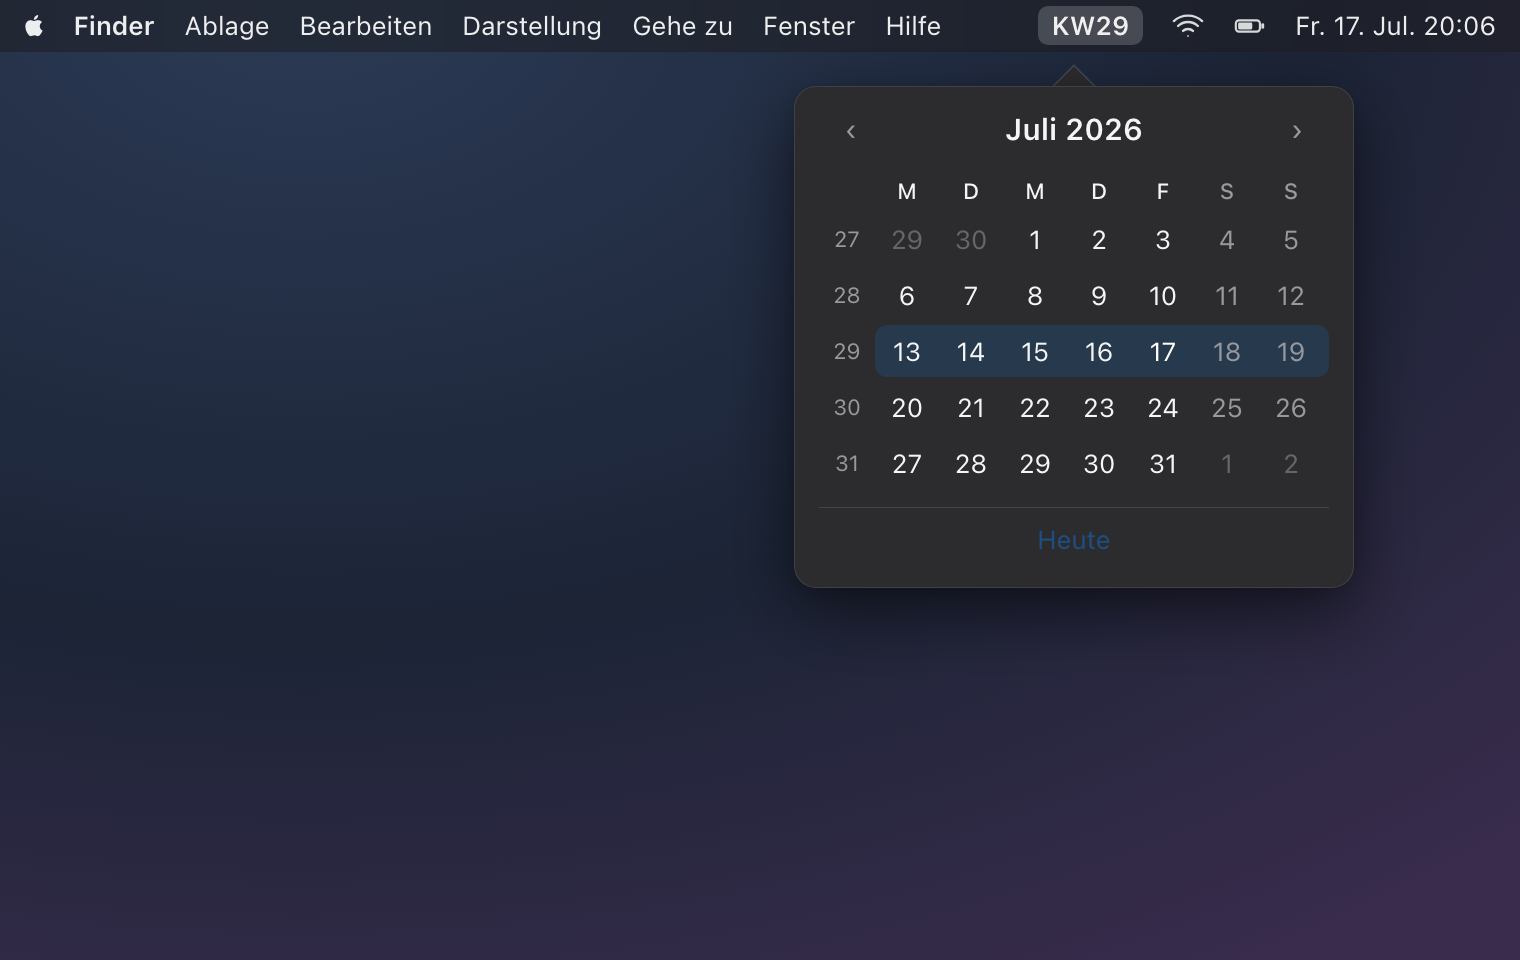
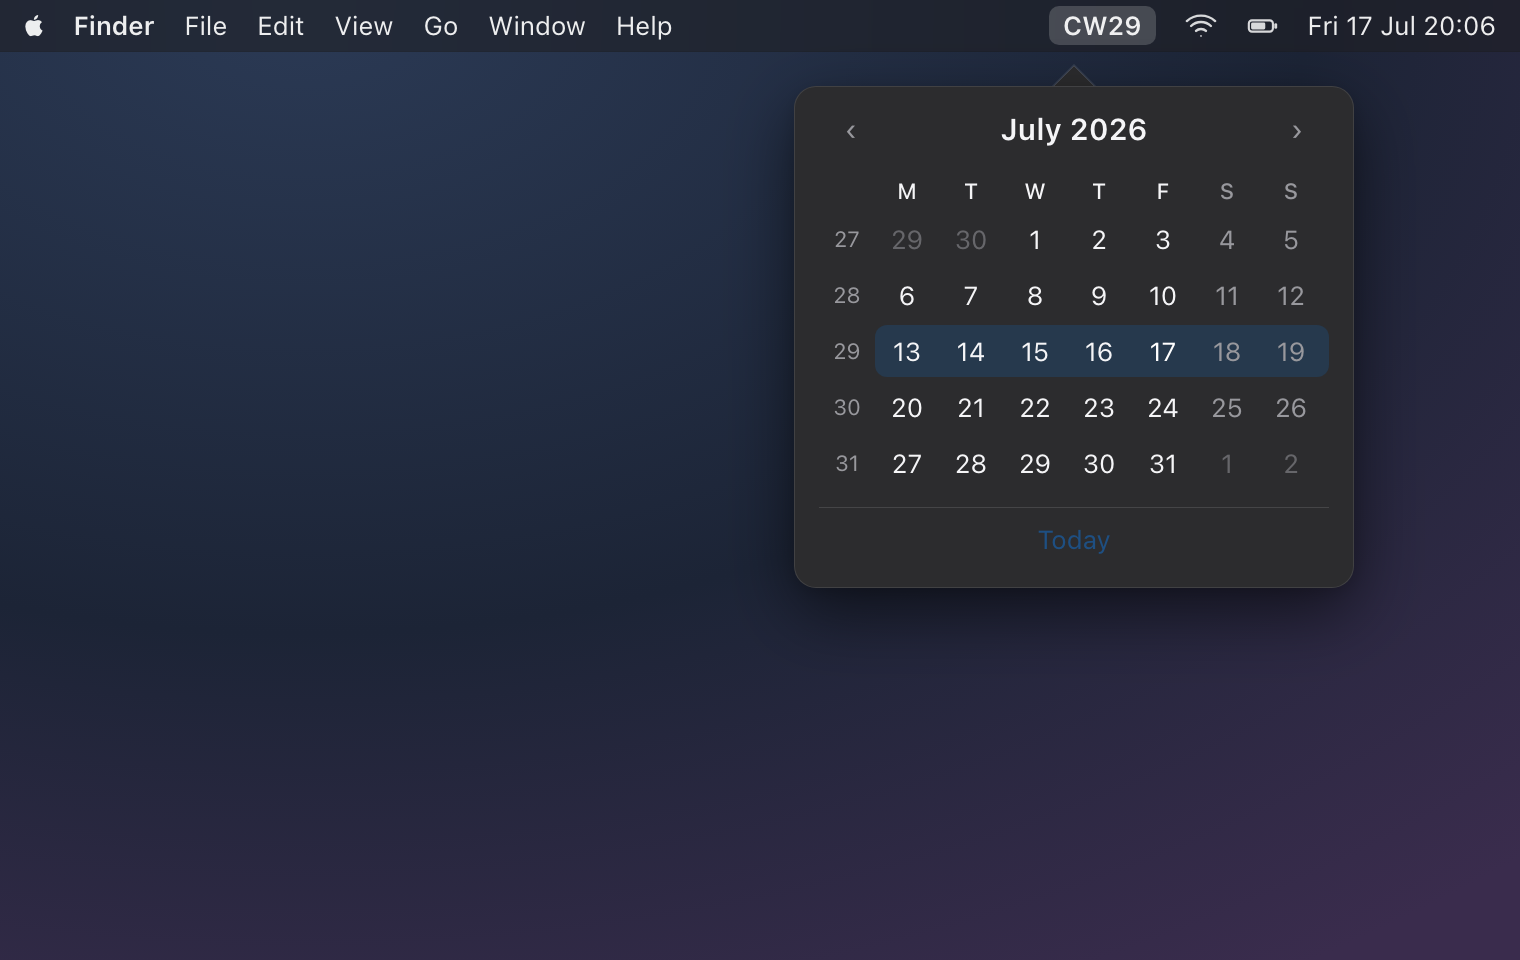
feat: switch the UI to English
Per direction change, the interface is now fully English instead of German:
menu bar shows 'CW29' (calendar week) instead of 'KW29', month names use en_US
(July 2026), weekday initials are M T W T F S S, and the popover/menu read
'Today' and 'Quit'. Update the tests, the README/CONTRIBUTING/CLAUDE/CHANGELOG,
and re-render the hero (light/dark) and social-preview images to match. The
ISO-8601 week math is unchanged; 'Kalenderwoche' is kept only as an SEO keyword.

diff --git a/QuickWeek/WeekCalculator.swift b/QuickWeek/WeekCalculator.swift
@@ -4,8 +4,8 @@ import Foundation
 ///
 /// Every calculation uses an ISO-8601 calendar: weeks start on Monday and week 1 is
 /// the week containing the year's first Thursday. That matches how the calendar week
-/// ("Kalenderwoche", KW) is counted in German-speaking and most European contexts —
-/// which is exactly the number macOS does not show anywhere by default.
+/// (CW — the *Kalenderwoche* used across much of Europe) is counted, which is exactly
+/// the number macOS does not show anywhere by default.
 enum WeekCalculator {
     /// The ISO-8601 calendar used for every week calculation. Its time zone tracks the
     /// system (`autoupdatingCurrent`) so the week still updates correctly if the Mac's
@@ -21,9 +21,9 @@ enum WeekCalculator {
         calendar.component(.weekOfYear, from: date)
     }
 
-    /// The menu-bar title for the given date, e.g. `"KW29"` (zero-padded to two digits).
+    /// The menu-bar title for the given date, e.g. `"CW29"` (zero-padded to two digits).
     static func menuBarTitle(for date: Date, calendar: Calendar = WeekCalculator.calendar) -> String {
-        String(format: "KW%02d", isoWeekNumber(for: date, calendar: calendar))
+        String(format: "CW%02d", isoWeekNumber(for: date, calendar: calendar))
     }
 
     /// The full weeks — each exactly seven days, Monday first — spanned by the month

diff --git a/QuickWeek/CalendarView.swift b/QuickWeek/CalendarView.swift
@@ -4,7 +4,7 @@ struct CalendarView: View {
     @State private var displayedMonth: Date = Date()
 
     private let calendar = WeekCalculator.calendar
-    private let weekdaySymbols = ["M", "D", "M", "D", "F", "S", "S"]
+    private let weekdaySymbols = ["M", "T", "W", "T", "F", "S", "S"]
 
     var body: some View {
         VStack(spacing: 12) {
@@ -85,7 +85,7 @@ struct CalendarView: View {
                 .padding(.top, 4)
 
             Button(action: goToToday) {
-                Text("Heute")
+                Text("Today")
                     .frame(maxWidth: .infinity)
             }
             .buttonStyle(.plain)
@@ -104,7 +104,7 @@ struct CalendarView: View {
 
     private var monthYearString: String {
         let formatter = DateFormatter()
-        formatter.locale = Locale(identifier: "de_DE")
+        formatter.locale = Locale(identifier: "en_US")
         formatter.dateFormat = "MMMM yyyy"
         return formatter.string(from: displayedMonth)
     }

diff --git a/QuickWeek/AppDelegate.swift b/QuickWeek/AppDelegate.swift
@@ -65,9 +65,9 @@ class AppDelegate: NSObject, NSApplicationDelegate {
         if event.type == .rightMouseUp {
             // Right click - show context menu
             let menu = NSMenu()
-            menu.addItem(NSMenuItem(title: "Quick Week", action: nil, keyEquivalent: ""))
+            menu.addItem(NSMenuItem(title: "QuickWeek", action: nil, keyEquivalent: ""))
             menu.addItem(NSMenuItem.separator())
-            menu.addItem(NSMenuItem(title: "Beenden", action: #selector(quit), keyEquivalent: "q"))
+            menu.addItem(NSMenuItem(title: "Quit", action: #selector(quit), keyEquivalent: "q"))
             statusItem.menu = menu
             statusItem.button?.performClick(nil)
             statusItem.menu = nil

diff --git a/QuickWeekTests/WeekCalculatorTests.swift b/QuickWeekTests/WeekCalculatorTests.swift
@@ -36,9 +36,9 @@ final class WeekCalculatorTests: XCTestCase {
     }
 
     func testMenuBarTitleIsZeroPadded() {
-        XCTAssertEqual(WeekCalculator.menuBarTitle(for: date(2026, 7, 17), calendar: calendar), "KW29")
+        XCTAssertEqual(WeekCalculator.menuBarTitle(for: date(2026, 7, 17), calendar: calendar), "CW29")
         // Weeks below ten are padded to keep the menu-bar width stable.
-        XCTAssertEqual(WeekCalculator.menuBarTitle(for: date(2026, 2, 23), calendar: calendar), "KW09")
+        XCTAssertEqual(WeekCalculator.menuBarTitle(for: date(2026, 2, 23), calendar: calendar), "CW09")
     }
 
     func testWeeksInMonthShapeForJuly2026() {

diff --git a/README.md b/README.md
@@ -11,14 +11,14 @@
 [![Ask DeepWiki](https://deepwiki.com/badge.svg)](https://deepwiki.com/marsvogel/QuickWeek)
 [![Built with Claude Code](https://img.shields.io/badge/Built_with-Claude_Code-D97757?logo=claude&logoColor=fff)](./AI_DISCLOSURE.md)
 
-A macOS menu bar app that shows the current **ISO-8601 calendar week** — the German *Kalenderwoche* (KW) — right where you already look.
+A macOS menu bar app that shows the current **ISO-8601 calendar week** (CW) — the *Kalenderwoche* much of Europe plans by — right where you already look.
 
-macOS shows the date and time everywhere but never the week number, even though much of Europe schedules by it (“let’s ship in KW32”). QuickWeek puts it in your menu bar and one click away.
+macOS shows the date and time everywhere but never the week number, even though much of Europe schedules by it (“let’s ship in CW32”). QuickWeek puts it in your menu bar and one click away.
 
 <p align="center">
   <picture>
     <source media="(prefers-color-scheme: dark)" srcset="docs/hero-dark.png">
-    <img src="docs/hero-light.png" alt="QuickWeek showing KW29 in the macOS menu bar next to the open month-calendar popover" width="720">
+    <img src="docs/hero-light.png" alt="QuickWeek showing CW29 in the macOS menu bar next to the open month-calendar popover" width="720">
   </picture>
 </p>
 
@@ -44,10 +44,10 @@ If you’d rather not run software that isn’t notarized, [build it from source
 
 ## Usage
 
-After launch, the current week — e.g. **KW29** — appears in the menu bar. There is no Dock icon and no window.
+After launch, the current week — e.g. **CW29** — appears in the menu bar. There is no Dock icon and no window.
 
-- **Left-click** the menu-bar item to open a month calendar. Every row shows its week number; the current week is tinted and today is circled. **Heute** jumps back to the current month.
-- **Right-click** for a small menu (Quit / *Beenden*).
+- **Left-click** the menu-bar item to open a month calendar. Every row shows its week number; the current week is tinted and today is circled. **Today** jumps back to the current month.
+- **Right-click** for a small menu (Quit).
 - The number refreshes automatically at midnight and when your Mac wakes from sleep.
 
 Weeks follow **ISO-8601**: they start on Monday, and week 1 is the week containing the year’s first Thursday — the same counting used for the *Kalenderwoche*.
@@ -85,7 +85,7 @@ xcodebuild test -project QuickWeek.xcodeproj -scheme QuickWeek
 
 See [CONTRIBUTING.md](CONTRIBUTING.md). Security issues: see [SECURITY.md](SECURITY.md).
 
-The interface is German today — an **English localization is a welcome first contribution** (see [good first issues](https://github.com/marsvogel/QuickWeek/labels/good%20first%20issue)).
+QuickWeek ships in English — **localizations are a welcome first contribution** (see [good first issues](https://github.com/marsvogel/QuickWeek/labels/good%20first%20issue)).
 
 ## About the name
 

diff --git a/CONTRIBUTING.md b/CONTRIBUTING.md
@@ -25,14 +25,14 @@ Please add tests for new logic where practical — the pure calendar math lives 
 
 ## Ground rules
 
-- **Everything checked into this repository is written in English**: code, comments, documentation, CI configuration, and commit messages. The one deliberate exception is **user-facing UI strings**, which are German on purpose — QuickWeek is built for a German-speaking audience (see below).
+- **Everything checked into this repository is written in English**: code, comments, string literals (including user-facing UI strings), documentation, CI configuration, and commit messages.
 - Commit messages follow the `type: subject` convention (e.g. `fix: …`, `feat: …`, `docs: …`), loosely per [Conventional Commits](https://www.conventionalcommits.org). No extra tooling is required.
 - Keep the app small and dependency-free — it currently builds with no third-party dependencies.
 - Never commit personal data or absolute user paths.
 
 ## Localization
 
-The interface is German today (the menu bar reads `KW29`, the calendar says `Heute`, months use `de_DE`). An **English localization is explicitly welcome** and a great first contribution — see the [good first issues](https://github.com/marsvogel/QuickWeek/labels/good%20first%20issue).
+QuickWeek ships in English (the menu bar reads `CW29`, the calendar says `Today`). **Localizations are explicitly welcome** and a great first contribution — the user-facing strings live in `CalendarView` and `AppDelegate`. See the [good first issues](https://github.com/marsvogel/QuickWeek/labels/good%20first%20issue).
 
 ## AI-assisted contributions
 

diff --git a/CLAUDE.md b/CLAUDE.md
@@ -1,7 +1,7 @@
 # CLAUDE.md
 
 QuickWeek is a macOS menu-bar app that shows the current ISO-8601 calendar week
-(the German *Kalenderwoche*, e.g. `KW29`) and opens a month-calendar popover.
+(the ISO-8601 calendar week, e.g. `CW29`) and opens a month-calendar popover.
 
 ## Project language
 
@@ -9,10 +9,9 @@ The repository language is English. Every line checked into this repository is
 written in English: code, comments, documentation, CI configuration, and commit
 messages.
 
-The single, deliberate exception is **user-facing UI strings**, which are German
-on purpose (`KW`, `Heute`, `Beenden`, `de_DE` month names) because QuickWeek is
-built for a German-speaking audience. Keep UI copy German unless a change adds a
-proper localization.
+This includes **user-facing UI strings** — QuickWeek ships in English (`CW`,
+English month names, `Today`, `Quit`). Localizations are welcome, but English is
+the base language.
 
 This rule applies to repository content only — keep conversing with the user in
 the user's native language.

diff --git a/CHANGELOG.md b/CHANGELOG.md
@@ -12,9 +12,9 @@ PATCH = a fix.
 
 ### Added
 
-- Menu-bar item showing the current ISO-8601 calendar week, e.g. `KW29`.
+- Menu-bar item showing the current ISO-8601 calendar week, e.g. `CW29`.
 - Popover month calendar with a week-number column, current-week and today
-  highlighting, month navigation, and a `Heute` (Today) button.
+  highlighting, month navigation, and a Today button.
 - Automatic refresh at midnight and when the Mac wakes from sleep.
 - Unit tests for the calendar math (`WeekCalculator`).
 - Continuous integration: SwiftLint (`--strict`), tests, CodeQL, and an OpenSSF
